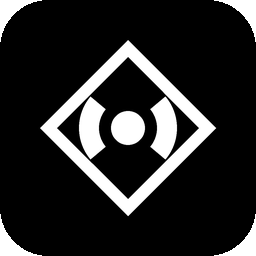
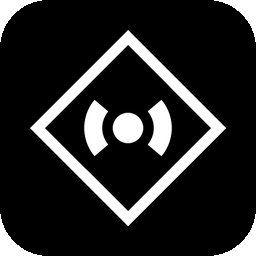
Comms: the toolbar glyph fills its square
The outline diamond was drawn with a tenth of the square as margin, which is
the trap CLAUDE.md already names: ATAK draws every toolbar icon in the same
square, so a glyph with padding reads smaller than its neighbours. It now spans
the full 256 edge to edge the way PLSS's grid does, and the launcher glyph sits
at 196 of 256 on its tile, which is the size every takwerx launcher glyph uses.

Changed region(s): [[0.125, 0.125, 0.875, 0.875], [0.375, 0.4062, 0.625, 0.5938]]

diff --git a/tools/make_icon.py b/tools/make_icon.py
@@ -28,7 +28,7 @@ MARKER = 48
 SEEN = (0x3D, 0xDC, 0x61, 255)
 
 
-def outline_diamond(px):
+def outline_diamond(px, margin=0.0):
     """
     The operator's own icon, 2026-09-11: the diamond as an outline on black, with
     the standard's white dot and arcs inside it.
@@ -37,12 +37,18 @@ def outline_diamond(px):
     GeoOps symbology and heavy as an app icon -- at launcher size it reads as a
     blue blob. Drawn as a stroke the shape is still the repeater symbol and the
     marks inside it are what the eye lands on.
+
+    <p>{@code margin} is the empty border as a fraction of the square, and the
+    default of none is deliberate: ATAK draws every toolbar icon in the same
+    square, so a glyph with padding reads smaller than its neighbours. The
+    toolbar copy spans the full 256 edge to edge, the way PLSS's grid does, and
+    the launcher glyph is sized instead by the tile it sits on.
     """
     s = px * SS
     im = Image.new("RGBA", (s, s), (0, 0, 0, 0))
     d = ImageDraw.Draw(im)
     c = s / 2
-    m = 0.10 * s
+    m = margin * s
     w = 0.055 * s
     # Two polygons rather than a stroked line: a stroke closes with a joint at the
     # top vertex and leaves a nick there. Filling the outer diamond and clearing an
@@ -117,8 +123,9 @@ def main():
 
     tile = Image.new("RGBA", (SIZE, SIZE), (0, 0, 0, 0))
     ImageDraw.Draw(tile).rounded_rectangle([0, 0, SIZE - 1, SIZE - 1], radius=48, fill=(0, 0, 0, 255))
-    g = outline_diamond(220)
-    tile.alpha_composite(g, ((SIZE - 220) // 2, (SIZE - 220) // 2))
+    # 196 of 256 on the tile, the size every takwerx launcher glyph uses.
+    g = outline_diamond(196)
+    tile.alpha_composite(g, ((SIZE - 196) // 2, (SIZE - 196) // 2))
     tile.save(os.path.join(OUT, "ic_launcher.png"))
     tile.save(os.path.join(HERE, "..", "docs", "user_manual", "plugin_icon.png"))
     print("wrote ic_marker.png (%dx%d), ic_marker_seen.png (%dx%d), ic_toolbar.png, ic_launcher.png"
